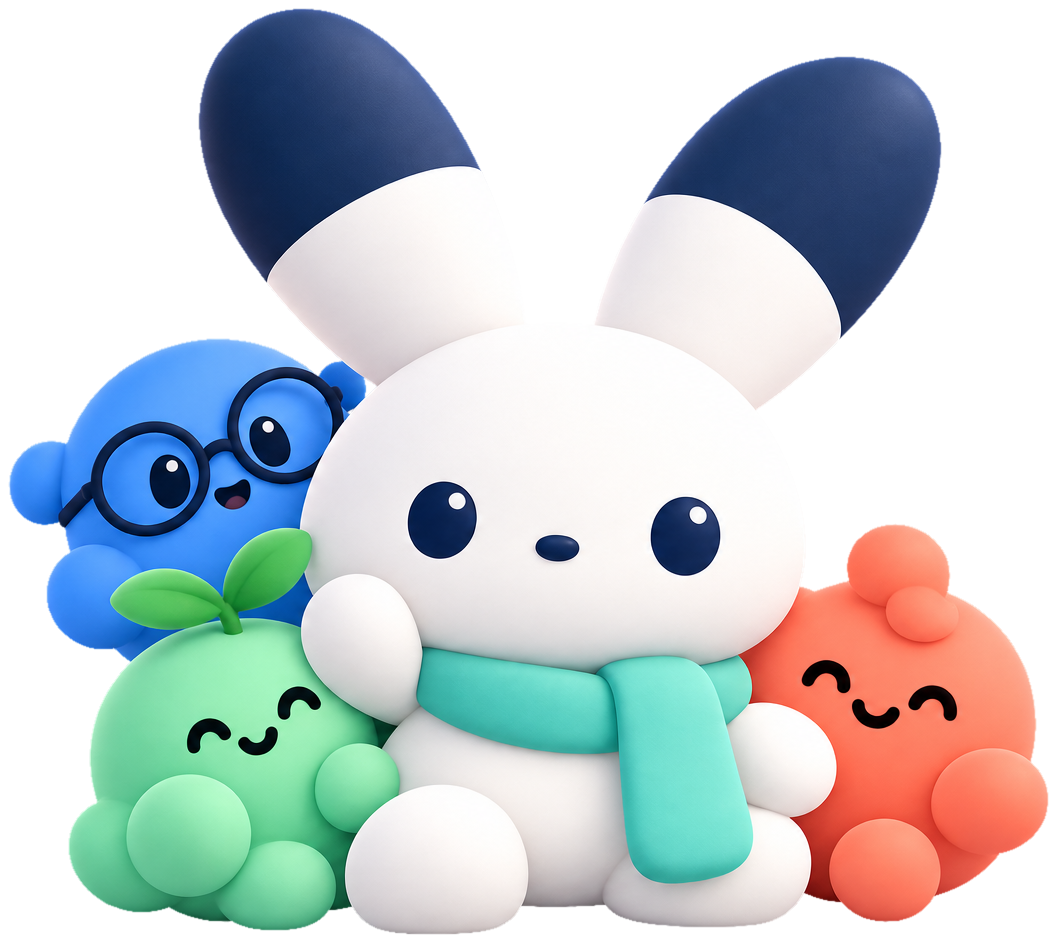
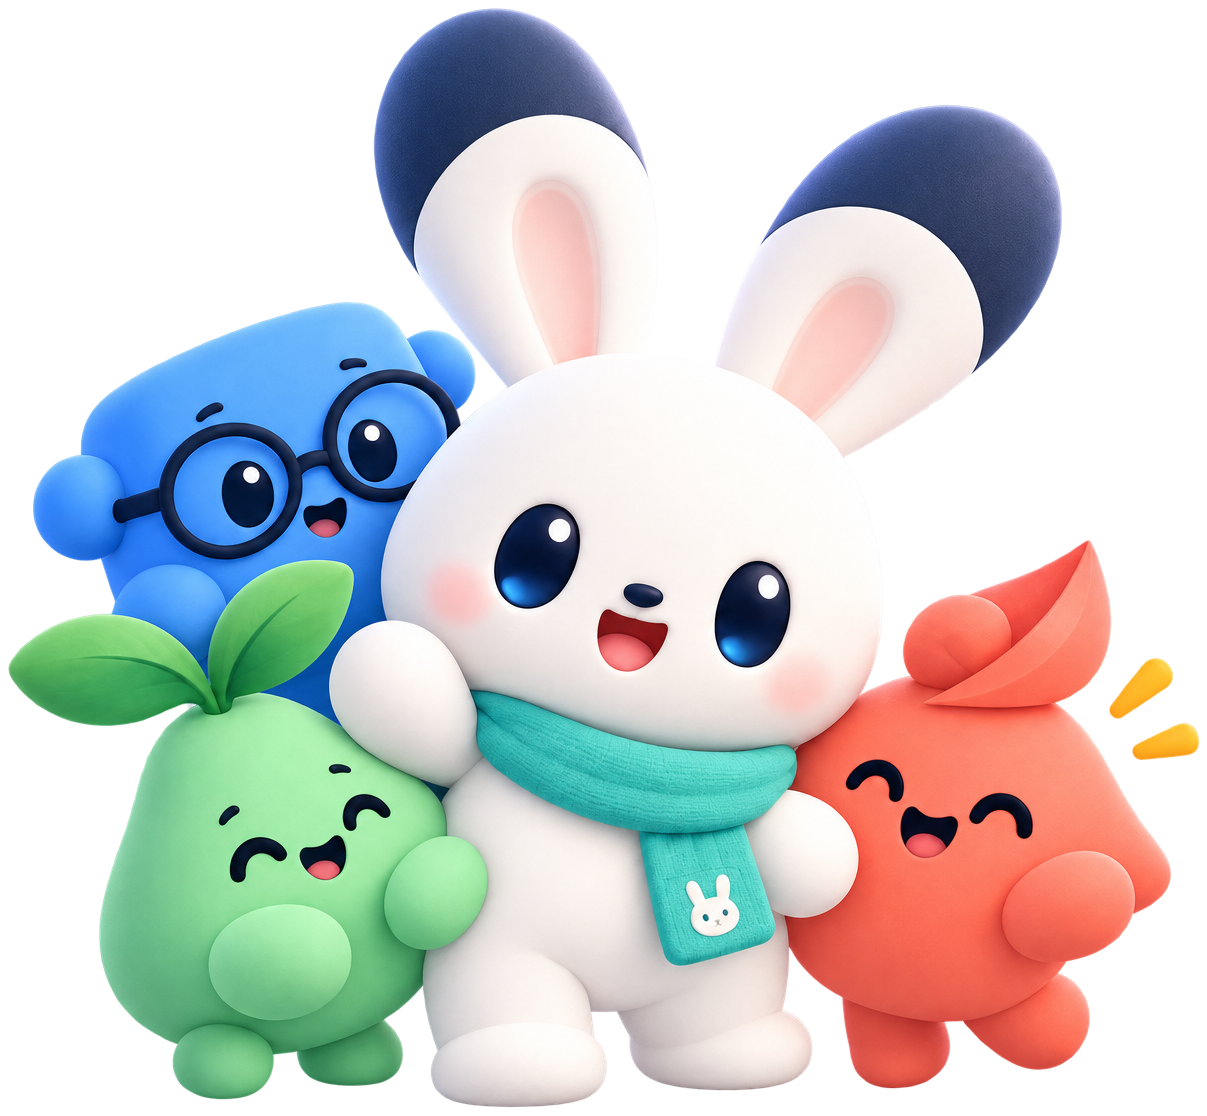
Refresh family artwork and About copy

diff --git a/scripts/brand-assets.swift b/scripts/brand-assets.swift
@@ -134,6 +134,7 @@ for (name, side, folk) in [("color", navy, aqua), ("reversed", white, aqua), ("n
 let wordmark = wordmarks["color"]!
 let mark = normalized(read("Resources/Brand/masters/rabbit-portrait.png"))
 let primaryMark = normalized(read("Resources/Brand/masters/rabbit-family.png"))
+let familyArt = normalized(read("Resources/Brand/masters/family-current.png"))
 let mono = normalized(read("Resources/Brand/exports/mascot-navy.png"))
 try save(normalized(read("Resources/Brand/masters/mascot-mochi.png")), exports.appendingPathComponent("mascot-color.png"))
 func tint(_ image: CGImage, _ ink: (Double, Double, Double)) -> CGImage {
@@ -164,7 +165,7 @@ func lockup(horizontal: Bool, mark: CGImage, word: CGImage) -> CGImage {
 }
 for (name, image) in wordmarks { try save(image, exports.appendingPathComponent("wordmark-\(name).png")) }
 // The family on its own, for the first hello and the About window.
-try save(primaryMark, exports.appendingPathComponent("family-color.png"))
+try save(familyArt, exports.appendingPathComponent("family-color.png"))
 try save(mark, exports.appendingPathComponent("mark-color.png"))
 try save(mono, exports.appendingPathComponent("mark-navy.png"))
 try save(tint(mono, (1,1,1)), exports.appendingPathComponent("mark-white.png"))

diff --git a/Sources/SidefolkApp/About/AboutWindowController.swift b/Sources/SidefolkApp/About/AboutWindowController.swift
@@ -16,10 +16,10 @@ struct AboutView: View {
                 .padding(.top, -Theme.Space.xs)
             Text("Version \(Self.version)").font(Theme.Font.caption).foregroundStyle(Theme.inkFaint)
             VStack(spacing: Theme.Space.xs) {
-                Text("Your AI sidekicks, always here.").font(Theme.Font.heading).foregroundStyle(Theme.ink)
+                Text("A little companion for your day.").font(Theme.Font.heading).foregroundStyle(Theme.ink)
                     .multilineTextAlignment(.center)
                     .fixedSize(horizontal: false, vertical: true)
-                Text("A companion that remembers, reminds, watches, and works with your agents.")
+                Text("Sidefolk remembers what matters, reminds you, watches for changes and helps get things done. It works with your AI agents, too.")
                     .font(Theme.Font.body).foregroundStyle(Theme.inkMuted)
                     .multilineTextAlignment(.center)
                     .fixedSize(horizontal: false, vertical: true)

diff --git a/Resources/Brand/README.md b/Resources/Brand/README.md
@@ -33,6 +33,7 @@ app icon and its preparation prompt are listed below.
 | Wordmarks | `exports/wordmark-{color,reversed,navy,white}.png` | Flat lettering, 4096 px wide; no bevel, glow or shadow. `color` is navy "Side" + aqua "folk" for light surfaces, `reversed` white "Side" + aqua "folk" for dark ones; the app uses only these two (D33). |
 | Vector wordmarks | `exports/wordmark-{color,reversed,navy,white}.{svg,pdf}` | One filled outline per letter built from strokes (below), canonical flat colors, no fonts, clipping masks, filters or embedded raster. The app draws the PDFs. |
 | Family art | `exports/family-color.png` | Mochi with Byte, Seed and Pip, without lettering: the first hello bubble and the About window. |
+| Family art master | `masters/family-current.png` | Approved 2026-10-31 family portrait, following the current Mochi and helper references; used to rebuild the family art export. |
 
 `scripts/build-app.sh` copies the production exports to `Contents/Resources/Brand/` and the templates
 to `Contents/Resources/MenuBar/`. `BrandAsset` provides typed AppKit loading in the app, and SwiftUI
